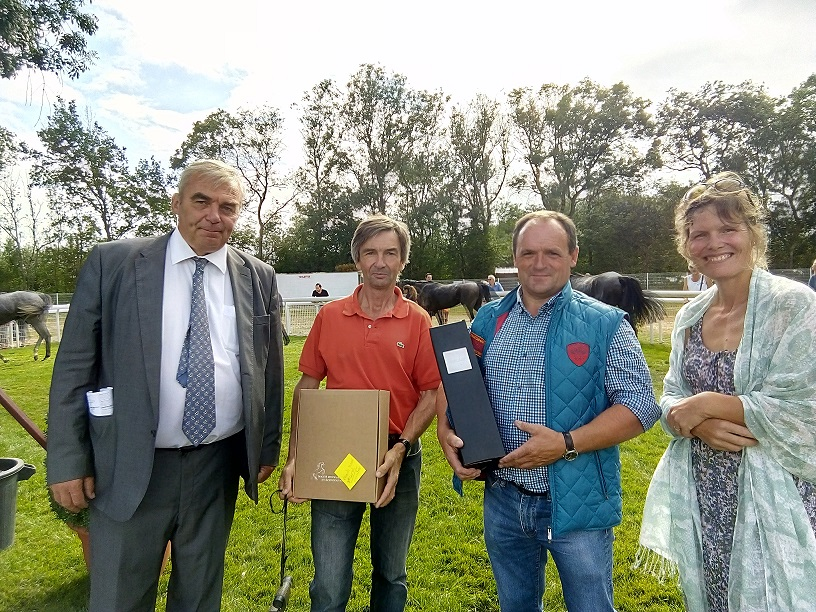
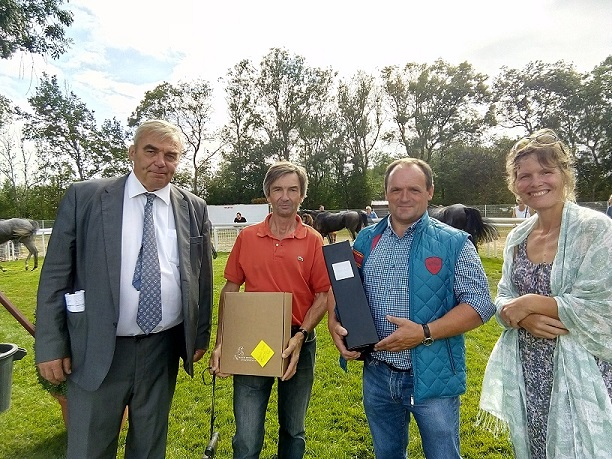
ajout lien + reduction taille photos

diff --git a/event.html b/event.html
@@ -110,7 +110,7 @@
             <div class="row align-items-center justify-content-end how-it-works d-flex">
               <div class="col-9 text-right">
                 <img src="https://www.prowein.de/cache/picf/4/7/8/2/232241494940559/Prowein-Logo-opengraph.jpg" class="img-responsive" alt="ProWein 2019 - falstaff" />
-                <h5><a class="importo" href="https://www.prowein.com/" target="_blank">PROWEIN 2019<br>Die Tastings in der Falstaff-Lounge</a></h5>
+                <h5><a class="importo" href="https://www.falstaff.de/ed/tasting-winzerinnen-und-ihre-spitzengewaechse/" target="_blank">PROWEIN 2019<br>Die Tastings in der Falstaff-Lounge</a></h5>
                 <p>
                   <span class="causale">MasterClass "Winzerinnen und ihre Spitzengewächse"</span>
                   <br><span class="causale" style="font-weight: 600;">Düsseldorf - Allemagne </span>
